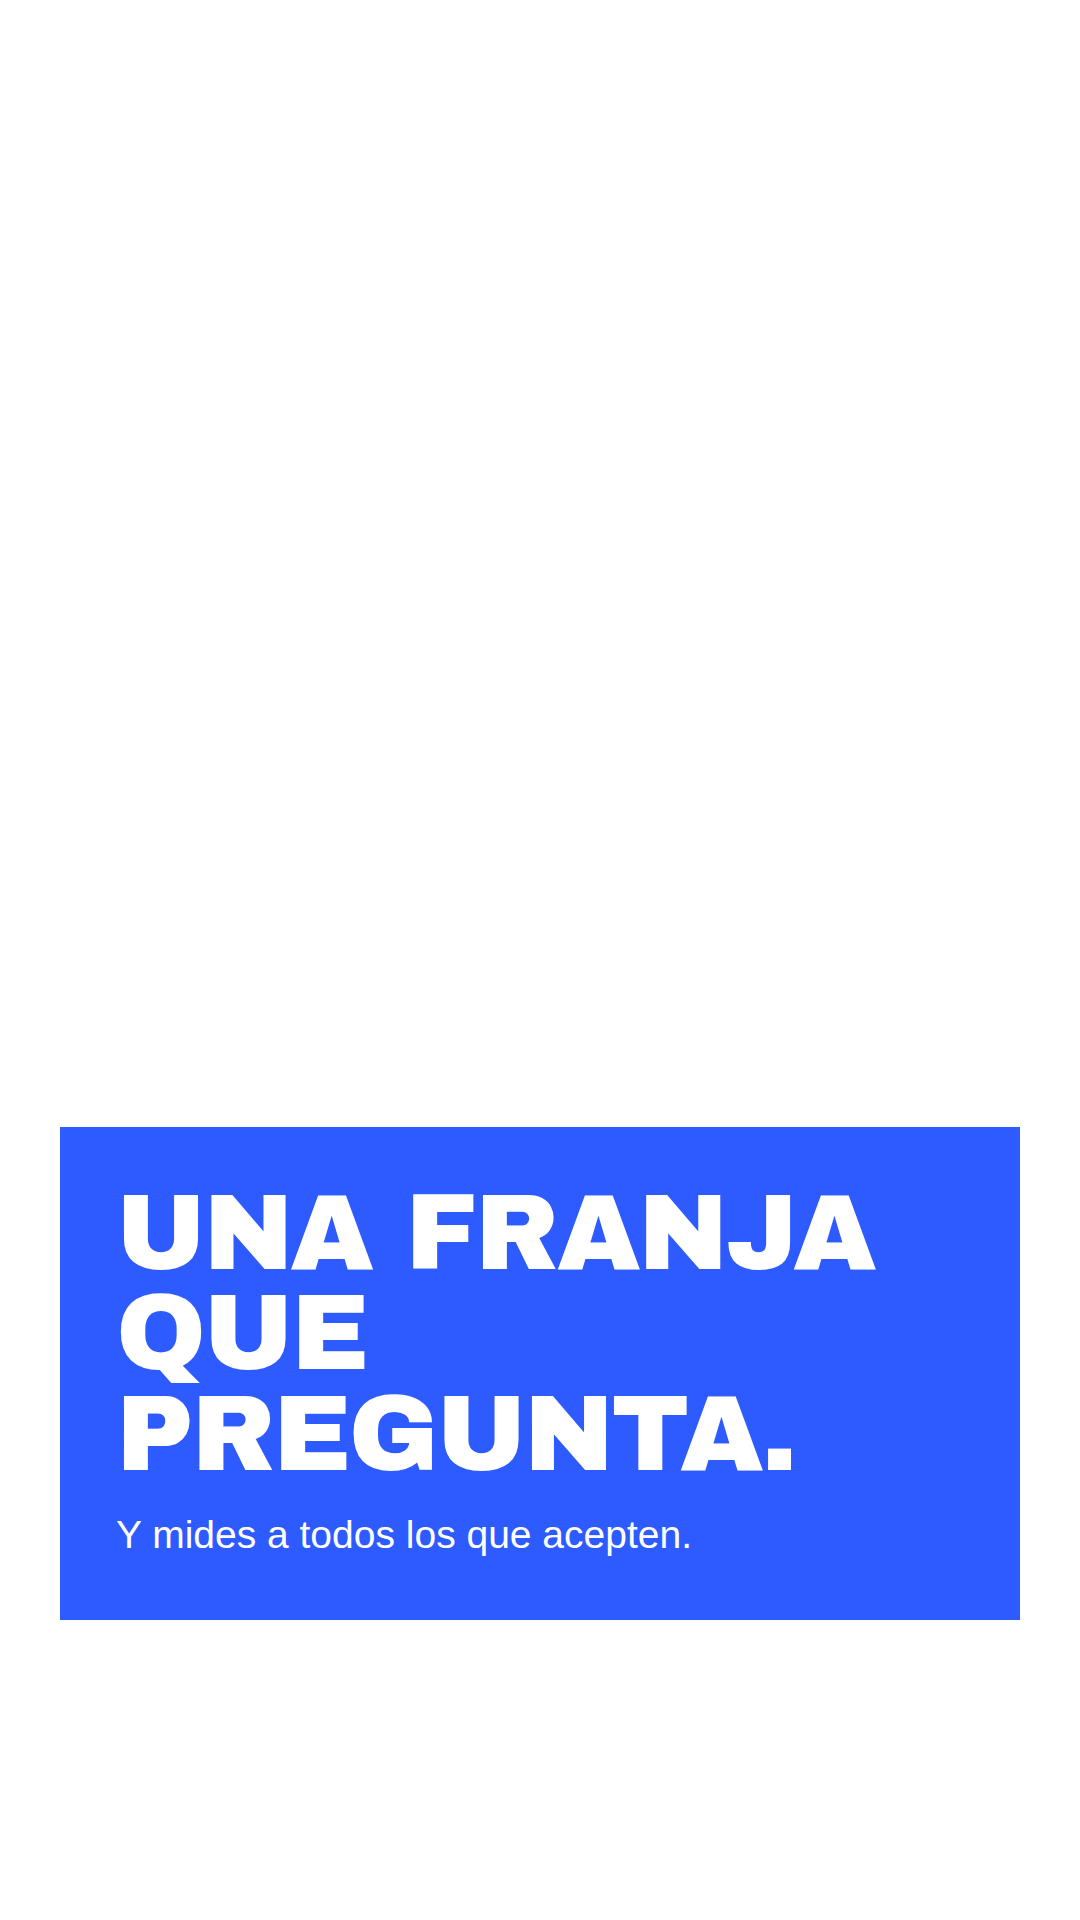
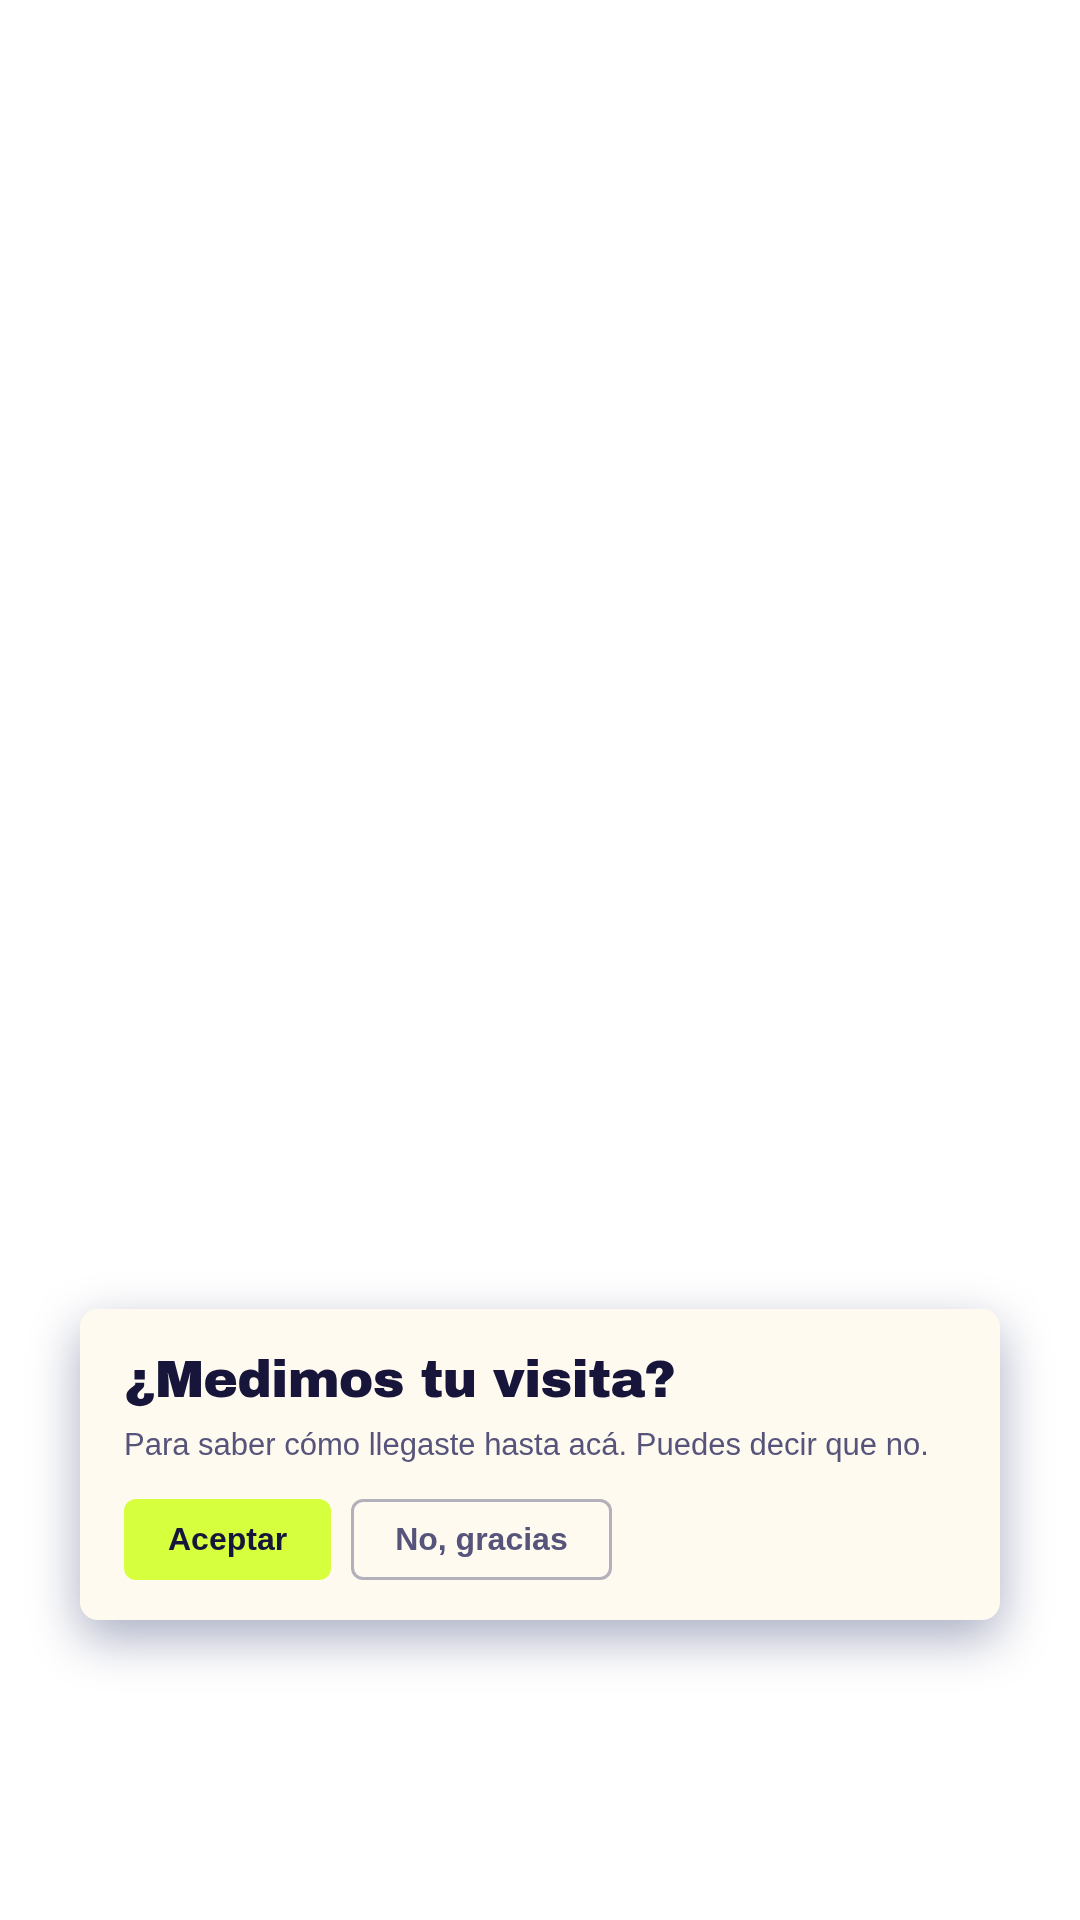
El quita-excusas sin contradiccion, y la tarjeta que dibuja el cartel
Ramon, ensayando: "es lo que instalaste para medir funcionando. Suena extrano,
porque estas hablando de que hiciste algo bueno pero en verdad esta siendo malo
para el cliente. Hay una contradiccion". Y de la solucion: "esas dos partes las
siento debiles, no tienen contexto... esta debil para hacerlo mas contundente
como pieza grafica".

Las dos criticas son correctas y de distinto tipo.

1. El quita-excusas se contradecia: decia que algo esta mal y en la misma frase
   que la herramienta funciona bien, y "funcionando" colgando al final no es
   espanol hablado. El problema no es la herramienta ni el criterio del dueno,
   es que nadie le puso el orden. Queda: "La herramienta de medicion trabaja
   apenas alguien entra. Nadie le dijo que preguntara primero." Sin
   contradiccion, y "preguntara" engancha con la solucion.

2. "Una franja abajo de tu sitio" describia un objeto en vez de nombrarlo por lo
   que la gente ya conoce. Nadie llama "franja" a eso. Queda "un cartel abajo que
   pregunta antes, el mismo que ves en cualquier sitio europeo": esa referencia
   hace el trabajo de cien palabras porque el espectador ya lo tiene en la cabeza.

3. Y la tarjeta hacia lo mismo que el texto: decia "UNA FRANJA QUE PREGUNTA", o
   sea describia el dibujo en vez de dibujarlo. Ahora la tarjeta ES el cartel,
   maquetado en la paleta de Verifica con sus dos botones.

Hallazgo del render: la tarjeta de cartel NO lleva bloque azul ni con ropa de
[…]

Changed region(s): [[0.0306, 0.5625, 0.9472, 0.875]]

diff --git a/marketing/redes/2026-11-noviembre-verifica/tarjetas/overlay-bloque.html b/marketing/redes/2026-11-noviembre-verifica/tarjetas/overlay-bloque.html
@@ -69,12 +69,39 @@
   /* Unico agregado a la plantilla: numeros en lima dentro de la linea, para la
      tarjeta de pasos del tutorial. */
   .linea .n { color: var(--lima-400); }
+
+  /* Tarjeta "cartel": en vez de describir el cartel de cookies, lo dibuja.
+     Es lo que el espectador ya reconoce de cualquier sitio europeo.
+     OJO: estas tarjetas NO llevan el bloque azul, ni siquiera en esta plantilla.
+     El cartel ya es un panel solido con su propio contraste; el bloque lo enmarca
+     y le mata la ilusion de estar posado sobre el video. Las copias de g1-4 y
+     g2-4 de esta carpeta son las de la plantilla sin bloque, a proposito. */
+  .cartel { background: var(--crema-100); border-radius: 18px; padding: 44px 44px 40px;
+            box-shadow: 0 18px 50px rgba(10,20,80,.35); }
+  .cartel .ct { font-family: var(--display); font-size: 52px; line-height: 1.04;
+                color: var(--tinta-900); letter-spacing: -.015em; }
+  .cartel .cp { font-family: var(--cuerpo); font-size: 31px; line-height: 1.3;
+                color: var(--tinta-500); margin: 18px 0 34px; }
+  .cartel .cb { display: flex; gap: 20px; }
+  .cartel .b  { font-family: var(--cuerpo); font-size: 32px; font-weight: 700;
+                padding: 22px 44px; border-radius: 12px; }
+  .cartel .b1 { background: var(--lima-400); color: var(--tinta-900); }
+  .cartel .b2 { background: transparent; color: var(--tinta-500);
+                box-shadow: inset 0 0 0 3px rgba(86,84,122,.45); }
 </style>
 
-<div class="bloque">
+<div class="bloque" id="bloque">
   <div class="etiqueta" id="etiqueta"></div>
   <div class="linea" id="linea"></div>
   <div class="cuerpo" id="cuerpo"></div>
+</div>
+
+<div class="bloque" id="bloqueCartel" style="display:none">
+  <div class="cartel">
+    <div class="ct" id="ct"></div>
+    <div class="cp" id="cp"></div>
+    <div class="cb"><div class="b b1" id="b1"></div><div class="b b2" id="b2"></div></div>
+  </div>
 </div>
 
 <script>
@@ -87,12 +114,12 @@
     { id:'g1-1', etiqueta:'',             linea:'LO GUARDA<br>SIN PREGUNTAR.',          cuerpo:'' },
     { id:'g1-2', etiqueta:'16 de 36',     linea:'CASI<br>LA MITAD.',                    cuerpo:'Entra antes de que el cliente diga nada.' },
     { id:'g1-3', etiqueta:'',             linea:'PUEDES SEGUIR<br>MIDIENDO.',           cuerpo:'Preguntándole al cliente primero.' },
-    { id:'g1-4', etiqueta:'',             linea:'UNA FRANJA<br>QUE PREGUNTA.',          cuerpo:'Y mides a todos los que acepten.' },
+    { id:'g1-4', cartel:{ t:'¿Medimos tu visita?', p:'Para saber si nuestra publicidad funcionó. Puedes decir que no.', b1:'Aceptar', b2:'No, gracias' } },
     // ---- Guion 2 · salud ----
     { id:'g2-1', etiqueta:'',             linea:'SIN PREGUNTAR<br>AL PACIENTE.',        cuerpo:'' },
     { id:'g2-2', etiqueta:'20 de 40',     linea:'LA<br>MITAD.',                         cuerpo:'De los sitios de clínicas y centros médicos que revisé.' },
     { id:'g2-3', etiqueta:'',             linea:'PUEDES SEGUIR<br>MIDIENDO.',           cuerpo:'Preguntándole al paciente primero.' },
-    { id:'g2-4', etiqueta:'',             linea:'UNA FRANJA<br>QUE PREGUNTA.',          cuerpo:'Y mides a todos los que acepten.' },
+    { id:'g2-4', cartel:{ t:'¿Medimos tu visita?', p:'Para saber cómo llegaste hasta acá. Puedes decir que no.', b1:'Aceptar', b2:'No, gracias' } },
     // ---- Guion 3 · contabilidad ----
     { id:'g3-1', etiqueta:'',             linea:'NOMBRE.<br>CORREO.<br>TELÉFONO.',      cuerpo:'' },
     { id:'g3-2', etiqueta:'9 de 39',      linea:'SIN DÓNDE<br>LEERLO.',                 cuerpo:'De los sitios de contadores y auditores que revisé, en la portada.' },
@@ -105,6 +132,16 @@
   ];
   const i = Number(new URLSearchParams(location.search).get('i') || 0);
   const c = T[Math.max(0, Math.min(T.length - 1, i))];
+  if (c.cartel) {
+    document.getElementById('bloque').style.display = 'none';
+    const bc = document.getElementById('bloqueCartel');
+    bc.style.display = 'block';
+    document.getElementById('ct').textContent = c.cartel.t;
+    document.getElementById('cp').textContent = c.cartel.p;
+    document.getElementById('b1').textContent = c.cartel.b1;
+    document.getElementById('b2').textContent = c.cartel.b2;
+    window.__id = c.id; throw new Error('cartel');
+  }
   const e = document.getElementById('etiqueta');
   e.innerHTML = c.etiqueta;
   if (!c.etiqueta) e.style.display = 'none';

diff --git a/marketing/redes/2026-11-noviembre-verifica/tarjetas/overlay.html b/marketing/redes/2026-11-noviembre-verifica/tarjetas/overlay.html
@@ -68,12 +68,35 @@
   /* Unico agregado a la plantilla: numeros en lima dentro de la linea, para la
      tarjeta de pasos del tutorial. */
   .linea .n { color: var(--lima-400); }
+
+  /* Tarjeta "cartel": en vez de describir el cartel de cookies, lo dibuja.
+     Es lo que el espectador ya reconoce de cualquier sitio europeo. */
+  .cartel { background: var(--crema-100); border-radius: 18px; padding: 44px 44px 40px;
+            box-shadow: 0 18px 50px rgba(10,20,80,.35); }
+  .cartel .ct { font-family: var(--display); font-size: 52px; line-height: 1.04;
+                color: var(--tinta-900); letter-spacing: -.015em; }
+  .cartel .cp { font-family: var(--cuerpo); font-size: 31px; line-height: 1.3;
+                color: var(--tinta-500); margin: 18px 0 34px; }
+  .cartel .cb { display: flex; gap: 20px; }
+  .cartel .b  { font-family: var(--cuerpo); font-size: 32px; font-weight: 700;
+                padding: 22px 44px; border-radius: 12px; }
+  .cartel .b1 { background: var(--lima-400); color: var(--tinta-900); }
+  .cartel .b2 { background: transparent; color: var(--tinta-500);
+                box-shadow: inset 0 0 0 3px rgba(86,84,122,.45); }
 </style>
 
-<div class="bloque">
+<div class="bloque" id="bloque">
   <div class="etiqueta" id="etiqueta"></div>
   <div class="linea" id="linea"></div>
   <div class="cuerpo" id="cuerpo"></div>
+</div>
+
+<div class="bloque" id="bloqueCartel" style="display:none">
+  <div class="cartel">
+    <div class="ct" id="ct"></div>
+    <div class="cp" id="cp"></div>
+    <div class="cb"><div class="b b1" id="b1"></div><div class="b b2" id="b2"></div></div>
+  </div>
 </div>
 
 <script>
@@ -86,12 +109,12 @@
     { id:'g1-1', etiqueta:'',             linea:'LO GUARDA<br>SIN PREGUNTAR.',          cuerpo:'' },
     { id:'g1-2', etiqueta:'16 de 36',     linea:'CASI<br>LA MITAD.',                    cuerpo:'Entra antes de que el cliente diga nada.' },
     { id:'g1-3', etiqueta:'',             linea:'PUEDES SEGUIR<br>MIDIENDO.',           cuerpo:'Preguntándole al cliente primero.' },
-    { id:'g1-4', etiqueta:'',             linea:'UNA FRANJA<br>QUE PREGUNTA.',          cuerpo:'Y mides a todos los que acepten.' },
+    { id:'g1-4', cartel:{ t:'¿Medimos tu visita?', p:'Para saber si nuestra publicidad funcionó. Puedes decir que no.', b1:'Aceptar', b2:'No, gracias' } },
     // ---- Guion 2 · salud ----
     { id:'g2-1', etiqueta:'',             linea:'SIN PREGUNTAR<br>AL PACIENTE.',        cuerpo:'' },
     { id:'g2-2', etiqueta:'20 de 40',     linea:'LA<br>MITAD.',                         cuerpo:'De los sitios de clínicas y centros médicos que revisé.' },
     { id:'g2-3', etiqueta:'',             linea:'PUEDES SEGUIR<br>MIDIENDO.',           cuerpo:'Preguntándole al paciente primero.' },
-    { id:'g2-4', etiqueta:'',             linea:'UNA FRANJA<br>QUE PREGUNTA.',          cuerpo:'Y mides a todos los que acepten.' },
+    { id:'g2-4', cartel:{ t:'¿Medimos tu visita?', p:'Para saber cómo llegaste hasta acá. Puedes decir que no.', b1:'Aceptar', b2:'No, gracias' } },
     // ---- Guion 3 · contabilidad ----
     { id:'g3-1', etiqueta:'',             linea:'NOMBRE.<br>CORREO.<br>TELÉFONO.',      cuerpo:'' },
     { id:'g3-2', etiqueta:'9 de 39',      linea:'SIN DÓNDE<br>LEERLO.',                 cuerpo:'De los sitios de contadores y auditores que revisé, en la portada.' },
@@ -104,6 +127,16 @@
   ];
   const i = Number(new URLSearchParams(location.search).get('i') || 0);
   const c = T[Math.max(0, Math.min(T.length - 1, i))];
+  if (c.cartel) {
+    document.getElementById('bloque').style.display = 'none';
+    const bc = document.getElementById('bloqueCartel');
+    bc.style.display = 'block';
+    document.getElementById('ct').textContent = c.cartel.t;
+    document.getElementById('cp').textContent = c.cartel.p;
+    document.getElementById('b1').textContent = c.cartel.b1;
+    document.getElementById('b2').textContent = c.cartel.b2;
+    window.__id = c.id; throw new Error('cartel');
+  }
   const e = document.getElementById('etiqueta');
   e.innerHTML = c.etiqueta;
   if (!c.etiqueta) e.style.display = 'none';

diff --git a/marketing/redes/2026-11-noviembre-verifica/guiones-anotados.md b/marketing/redes/2026-11-noviembre-verifica/guiones-anotados.md
@@ -42,25 +42,27 @@ es lo que hace que el loop se sienta continuo.
   En casi la mitad de los cafés y pastelerías
   que revisé, / pasa eso mismo.                     [ÉNFASIS: casi la mitad]
 
-  No es que tu sitio esté mal hecho.                [ENTONACIÓN SUSPENDIDA]
-  Es lo que instalaste para medir, funcionando.     [REMATE ABAJO]
-
 [DESARROLLO]
 [TEXTO EN PANTALLA]: g1-3 · PUEDES SEGUIR MIDIENDO
-  Puedes seguir midiendo igual.                     [REMATE ABAJO]
-  Solo hay que preguntarle al cliente primero.      [ÉNFASIS: primero]
-
-  Y esa pregunta va a ser obligatoria por ley.      [REMATE ABAJO]
+  No es que tu sitio esté mal hecho.                [ENTONACIÓN SUSPENDIDA]
+  La herramienta de medición trabaja
+  apenas alguien entra.                             [ENTONACIÓN SUSPENDIDA]
+  Nadie le dijo que preguntara primero.             [ÉNFASIS: preguntara]
+                                                    [REMATE ABAJO]
 
 [SOLUCIÓN]
-[TEXTO EN PANTALLA]: g1-4 · UNA FRANJA QUE PREGUNTA
-  Es una franja abajo de tu sitio / que le
-  pregunta al cliente si acepta.                    [REMATE ABAJO]
+[TEXTO EN PANTALLA]: g1-4 · el cartel maquetado (sin bloque, aunque la ropa sea de color)
+  Y se arregla con un cartel abajo /
+  que pregunta antes.                               [ENTONACIÓN SUSPENDIDA]
+  El mismo que ves en cualquier sitio europeo.      [ÉNFASIS: europeo]
+  Si dice que sí, / mides igual.                    [REMATE ABAJO]
+
+  Y esa pregunta va a ser obligatoria por ley.      [REMATE ABAJO]
 
 [CIERRE]
 [TEXTO EN PANTALLA]: g0-cierre · verifica.spindlelab.cl
   Hice un chequeo gratis / que te dice si tu
-  sitio tiene esa franja.
+  sitio lo tiene.
   Soy Ramón, de SpindleLab.                         [REMATE ABAJO]
 
 [ÚLTIMO GANCHO · enlaza con el inicio]
